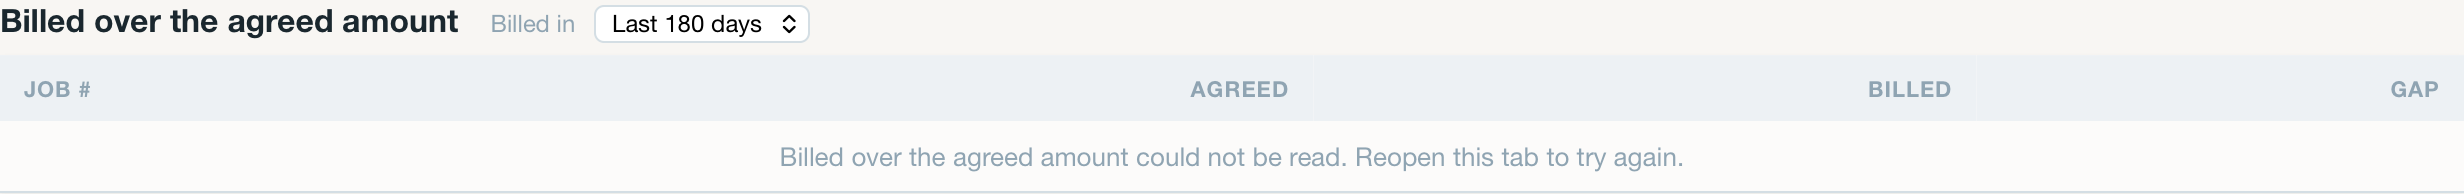
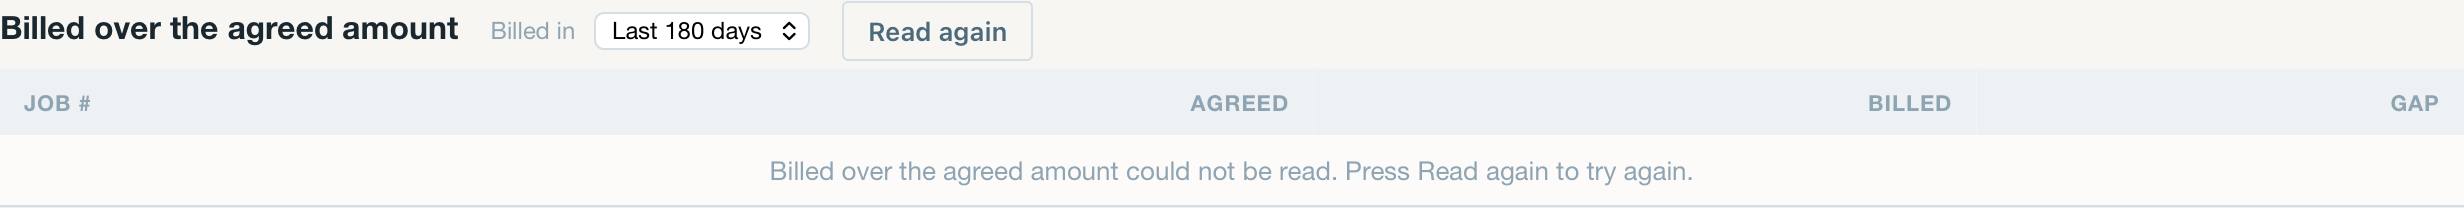
FU49-9d Over-amount list loads on demand: nothing read on Work Orders tab open
Director 16:58: the read walks every job billed in the window through the cap
sum, so opening the tab now paints the window picker and a 'Show jobs billed
over the agreed amount' press and reads nothing. One read per press; a window
change reads again only after the list is shown. Spec asserts no request on
tab open (and on reopen) and one after the press. WebKit pictures updated,
plus the tab-open state.

Built by Claude Opus 5.5, fix by Claude Opus 5.5 medium.

diff --git a/tests/e2e/ops-overbilled.spec.js b/tests/e2e/ops-overbilled.spec.js
@@ -3,7 +3,10 @@
 // list_overbilled_job_work_orders?days=<window>, largest gap first, plus the
 // jobs billed in the window with no agreed amount, listed apart. No trade
 // rate, hours or line. A window too wide is said plainly; a failed or refused
-// read says so in words and never draws an empty list.
+// read says so in words and never draws an empty list. The read walks every job
+// billed in the window, so it runs ON DEMAND only (director 16:58): opening the
+// Work Orders tab reads nothing; one press of "Show jobs billed over the agreed
+// amount" reads once.
 // Made-up figures and ZZTEST job numbers only.
 const { test, expect } = require('@playwright/test');
 const { revealOpsStaticFixture } = require('../helpers/ops-auth');
@@ -77,10 +80,43 @@ async function boot(page, plan) {
 }
 
 const overReads = (page) => page.evaluate(() => window.__reads.filter((r) => r.action === 'list_overbilled_job_work_orders').map((r) => r.params));
+const SHOW = 'Show jobs billed over the agreed amount';
+
+// Open the Work Orders tab (no read), then press Show (one read).
+async function openAndShow(page) {
+  await page.evaluate(() => loadWOs());
+  await page.locator('#woOverbilled').getByRole('button', { name: SHOW }).click();
+}
+
+test('opening the Work Orders tab reads nothing; one press reads once; reopening the tab reads nothing again', async ({ page }) => {
+  await boot(page, { 90: 'ok', 30: 'ok' });
+  await page.evaluate(() => loadWOs());
+  const host = page.locator('#woOverbilled');
+  await expect(host.getByRole('button', { name: SHOW })).toBeVisible();
+  await expect(host.locator('[data-overbilled-idle]')).toContainText('Not loaded.');
+  await expect(host.locator('[data-overbilled-row]')).toHaveCount(0);
+  // The other Work Orders reads ran, so the tab really opened.
+  await expect.poll(() => page.evaluate(() => window.__reads.some((r) => r.action === 'list_work_orders'))).toBe(true);
+  // Picking a window before the press reads nothing either.
+  await host.locator('[data-overbilled-window]').selectOption('30');
+  await expect(host.locator('[data-overbilled-window]')).toHaveValue('30');
+  expect(await overReads(page)).toEqual([]);
+
+  await host.getByRole('button', { name: SHOW }).click();
+  await expect(host.locator('[data-overbilled-row]')).toHaveCount(1);
+  expect(await overReads(page)).toEqual([{ days: 30 }]);
+
+  // A second open of the tab goes back to the press, with no read.
+  await page.evaluate(() => loadWOs());
+  await expect(host.getByRole('button', { name: SHOW })).toBeVisible();
+  await expect(host.locator('[data-overbilled-row]')).toHaveCount(0);
+  await page.waitForTimeout(300);
+  expect(await overReads(page)).toEqual([{ days: 30 }]);
+});
 
 test('lists jobs billed over the agreed amount, largest gap first, and opens the job page', async ({ page }) => {
   await boot(page, { 90: 'ok' });
-  await page.evaluate(() => loadWOs());
+  await openAndShow(page);
   const host = page.locator('#woOverbilled');
   const rows = host.locator('[data-overbilled-row]');
   await expect(rows).toHaveCount(3);
@@ -106,7 +142,7 @@ test('lists jobs billed over the agreed amount, largest gap first, and opens the
 
 test('jobs billed with no agreed amount are listed apart, each with its reason, and open the job', async ({ page }) => {
   await boot(page, { 90: 'ok' });
-  await page.evaluate(() => loadWOs());
+  await openAndShow(page);
   const apart = page.locator('#woOverbilled [data-overbilled-apart]');
   await expect(apart.locator('h4')).toHaveText('Billed with no agreed amount');
   const rows = apart.locator('[data-overbilled-apart-row]');
@@ -122,7 +158,7 @@ test('jobs billed with no agreed amount are listed apart, each with its reason, 
 
 test('changing the window reads again with that many days', async ({ page }) => {
   await boot(page, { 90: 'ok', 30: 'ok' });
-  await page.evaluate(() => loadWOs());
+  await openAndShow(page);
   const host = page.locator('#woOverbilled');
   await expect(host.locator('[data-overbilled-row]')).toHaveCount(3);
   await host.locator('[data-overbilled-window]').selectOption('30');
@@ -134,7 +170,7 @@ test('changing the window reads again with that many days', async ({ page }) => 
 
 test('a window too wide says to pick a shorter one, plainly, and a shorter one then lists', async ({ page }) => {
   await boot(page, { 365: 'wide', 90: 'ok' });
-  await page.evaluate(() => loadWOs());
+  await openAndShow(page);
   const host = page.locator('#woOverbilled');
   await host.locator('[data-overbilled-window]').selectOption('365');
   await expect(host.locator('[data-overbilled-too-wide]')).toHaveText('Too many jobs were billed in the last 365 days to check them all. Pick a shorter window above.');
@@ -147,7 +183,7 @@ test('a window too wide says to pick a shorter one, plainly, and a shorter one t
 
 test('an empty answer says nobody is over, and nobody is without an agreed amount', async ({ page }) => {
   await boot(page, { 90: { ...answer(90), billed_jobs: 7, checked_work_orders: 7, count: 0, total_gap_ex: 0, jobs: [], no_agreed_amount_count: 0, no_agreed_amount: [] } });
-  await page.evaluate(() => loadWOs());
+  await openAndShow(page);
   const host = page.locator('#woOverbilled');
   await expect(host.locator('[data-overbilled-empty]')).toHaveText('No job billed in the window is over its agreed amount.');
   await expect(host.locator('[data-overbilled-apart-empty]')).toHaveText('Every job billed in the window has an agreed amount.');
@@ -158,10 +194,10 @@ test('an answer without the no-agreed-amount list says that list could not be re
   const a = answer(90);
   delete a.no_agreed_amount;
   await boot(page, { 90: a });
-  await page.evaluate(() => loadWOs());
+  await openAndShow(page);
   const host = page.locator('#woOverbilled');
   await expect(host.locator('[data-overbilled-row]')).toHaveCount(3);
-  await expect(host.locator('[data-overbilled-apart-failed]')).toHaveText('This list could not be read. Reopen this tab to try again.');
+  await expect(host.locator('[data-overbilled-apart-failed]')).toHaveText('This list could not be read. Press Read again to try again.');
   await expect(host.locator('[data-overbilled-apart-empty]')).toHaveCount(0);
 });
 
@@ -172,9 +208,9 @@ for (const [name, want] of [
 ]) {
   test(`${name} shows the failed state, never an empty list or $0.00`, async ({ page }) => {
     await boot(page, { 90: want });
-    await page.evaluate(() => loadWOs());
+    await openAndShow(page);
     const host = page.locator('#woOverbilled');
-    await expect(host.locator('[data-overbilled-failed]')).toHaveText('Billed over the agreed amount could not be read. Reopen this tab to try again.');
+    await expect(host.locator('[data-overbilled-failed]')).toHaveText('Billed over the agreed amount could not be read. Press Read again to try again.');
     await expect(host.locator('[data-overbilled-row]')).toHaveCount(0);
     await expect(host.locator('[data-overbilled-empty]')).toHaveCount(0);
     await expect(host.locator('[data-overbilled-apart]')).toHaveCount(0);
@@ -184,7 +220,7 @@ for (const [name, want] of [
 
 test('a 403 says only staff can see the list', async ({ page }) => {
   await boot(page, { 90: 'refused' });
-  await page.evaluate(() => loadWOs());
+  await openAndShow(page);
   await expect(page.locator('#woOverbilled [data-overbilled-failed]')).toHaveText('Only staff can see this list.');
 });
 
@@ -196,6 +232,10 @@ test('screenshots of the list from fixture data', async ({ page }) => {
   await boot(page, { 90: 'ok', 365: 'wide', 180: 'fail' });
   await page.evaluate(() => loadWOs());
   const host = page.locator('#woOverbilled');
+  await expect(host.getByRole('button', { name: SHOW })).toBeVisible();
+  await host.scrollIntoViewIfNeeded();
+  await shot('overbilled-on-tab-open.png');
+  await host.getByRole('button', { name: SHOW }).click();
   await expect(host.locator('[data-overbilled-apart-row]')).toHaveCount(3);
   await host.scrollIntoViewIfNeeded();
   await shot('overbilled-list.png');

diff --git a/modules/ops-overbilled.js b/modules/ops-overbilled.js
@@ -1,8 +1,12 @@
 // Financials > Work Orders: Billed over the agreed amount (follow-up 49 item
 // 9(d)). The office's first overcharge review. Read only, needs no switch.
 //
-// Reads:  ops-api list_overbilled_job_work_orders?days=<window> once per open
-//         of the Work Orders tab and once per change of the window
+// Reads:  ops-api list_overbilled_job_work_orders?days=<window> ON DEMAND only
+//         (director 16:58): opening the Work Orders tab paints the window
+//         picker and a "Show jobs billed over the agreed amount" press and
+//         reads nothing, because the read walks every job billed in the window
+//         through the cap sum. One read per press, and once per change of the
+//         window after the list is shown, never before
 //         (secureworks-backend work_order_overbilled.ts). Staff only on the
 //         server (403 otherwise). The server checks the jobs a trade billed in
 //         the last `days` (90 unless picked here) and answers:
@@ -155,7 +159,7 @@ var OverbilledCore = (function () {
     if (err && (err.code === 'overbilled_window_too_wide' || err.status === 422)) {
       return 'Too many jobs were billed in the last ' + days + ' days to check them all. Pick a shorter window above.';
     }
-    return 'Billed over the agreed amount could not be read. Reopen this tab to try again.';
+    return 'Billed over the agreed amount could not be read. Press Read again to try again.';
   }
 
   return {
@@ -170,7 +174,8 @@ var OverbilledCore = (function () {
 var Overbilled = (function () {
   'use strict';
   var C = OverbilledCore;
-  var state = { seq: 0, days: C.DEFAULT_DAYS };
+  var state = { seq: 0, days: C.DEFAULT_DAYS, shown: false };
+  var SHOW_WORDS = 'Show jobs billed over the agreed amount';
 
   function host() { return document.getElementById('woOverbilled'); }
 
@@ -190,6 +195,7 @@ var Overbilled = (function () {
       '#woOverbilled .obl-gap{color:var(--sw-red,#c0392b);font-weight:600}' +
       '#woOverbilled .obl-muted{font-size:12px;color:var(--sw-text-sec,#6b7280)}' +
       '#woOverbilled .obl-job{font-weight:600;white-space:nowrap;color:var(--sw-mid,#293c46)}' +
+      '#woOverbilled .obl-show{font-size:13px;padding:6px 12px;cursor:pointer}' +
       '#woOverbilled .obl-refused{font-size:14px;color:var(--sw-text,#293c46);font-weight:600;padding:16px}';
     document.head.appendChild(s);
   }
@@ -199,7 +205,8 @@ var Overbilled = (function () {
       return '<option value="' + d + '"' + (d === state.days ? ' selected' : '') + '>Last ' + d + ' days</option>';
     }).join('');
     return '<div class="obl-head"><h3>Billed over the agreed amount</h3>' +
-      '<label>Billed in <select class="form-input" data-overbilled-window aria-label="Billed in">' + opts + '</select></label></div>';
+      '<label>Billed in <select class="form-input" data-overbilled-window aria-label="Billed in">' + opts + '</select></label>' +
+      '<button type="button" class="btn btn-secondary obl-show" data-overbilled-show>' + (state.shown ? 'Read again' : SHOW_WORDS) + '</button></div>';
   }
 
   function table(body) {
@@ -213,7 +220,7 @@ var Overbilled = (function () {
   function apartHtml(apart) {
     var body;
     if (apart === null) {
-      body = '<tr><td colspan="2" class="empty-state" data-overbilled-apart-failed>This list could not be read. Reopen this tab to try again.</td></tr>';
+      body = '<tr><td colspan="2" class="empty-state" data-overbilled-apart-failed>This list could not be read. Press Read again to try again.</td></tr>';
     } else if (!apart.length) {
       body = '<tr><td colspan="2" class="empty-state" data-overbilled-apart-empty>Every job billed in the window has an agreed amount.</td></tr>';
     } else {
@@ -225,6 +232,14 @@ var Overbilled = (function () {
       '<div class="data-table-wrap"><table class="data-table" id="oblApartTable">' +
       '<thead><tr><th>Job #</th><th>Why it cannot be checked</th></tr></thead>' +
       '<tbody>' + body + '</tbody></table></div></section>';
+  }
+
+  // Tab open: the picker and the press only. Nothing is read.
+  function paintIdle() {
+    var h = host();
+    if (!h) return;
+    h.innerHTML = headHtml() + '<p class="obl-note" data-overbilled-idle>Not loaded. Pick a window and press ' + SHOW_WORDS +
+      '. It checks every job a trade billed in that window, so it is read only when asked.</p>';
   }
 
   function paintLoading() {
@@ -261,6 +276,8 @@ var Overbilled = (function () {
     if (!h || h.__oblWired) return;
     h.__oblWired = true;
     h.addEventListener('click', function (e) {
+      var show = e.target.closest('[data-overbilled-show]');
+      if (show) { state.shown = true; load(); return; }
       var a = e.target.closest('[data-overbilled-job]');
       if (!a) return;
       e.preventDefault();
@@ -271,8 +288,20 @@ var Overbilled = (function () {
       var sel = e.target.closest && e.target.closest('[data-overbilled-window]');
       if (!sel) return;
       state.days = C.windowDays(sel.value);
-      load();
+      // Before the press a window change only picks; after it, it reads again.
+      if (state.shown) load(); else paintIdle();
     });
+  }
+
+  // Called on every open of the Work Orders tab: paints the press, reads nothing,
+  // and drops any read still in flight from an earlier open.
+  function mount() {
+    if (!host()) return;
+    injectCss();
+    wire();
+    state.seq++;
+    state.shown = false;
+    paintIdle();
   }
 
   async function load() {
@@ -294,7 +323,7 @@ var Overbilled = (function () {
     }
   }
 
-  return { load: load };
+  return { mount: mount, load: load };
 })();
 
 window.OverbilledCore = OverbilledCore;

diff --git a/ops.html b/ops.html
@@ -19879,7 +19879,7 @@ function packetJobWorkOrder(data) {
 
 async function loadWOs() {
   if (window.WorkOrdersList) WorkOrdersList.load();
-  if (window.Overbilled) Overbilled.load();
+  if (window.Overbilled) Overbilled.mount();
   if (window.OfficeWoFill) OfficeWoFill.paint();
   var tbody = document.getElementById('woTableBody');
   try {
